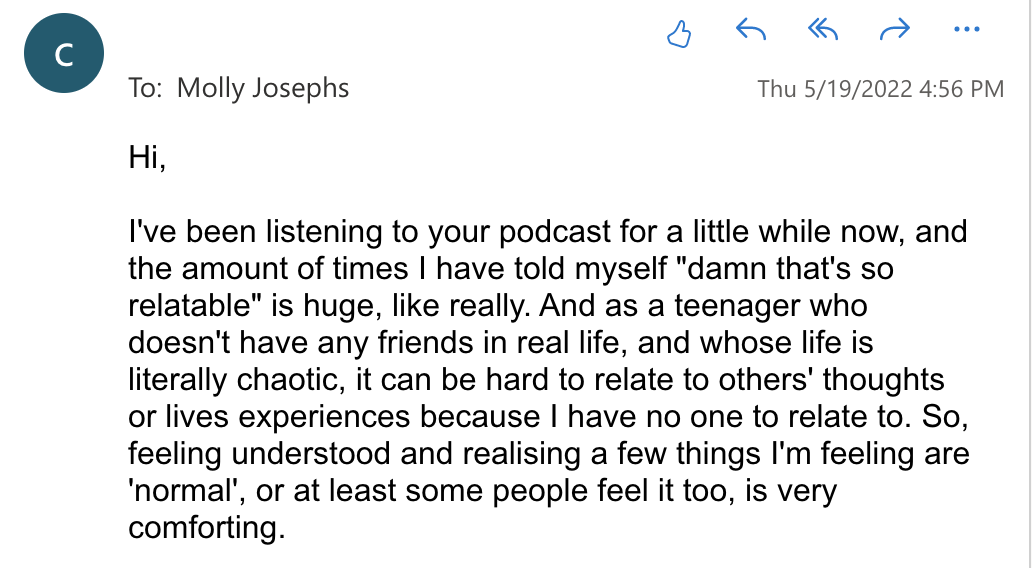
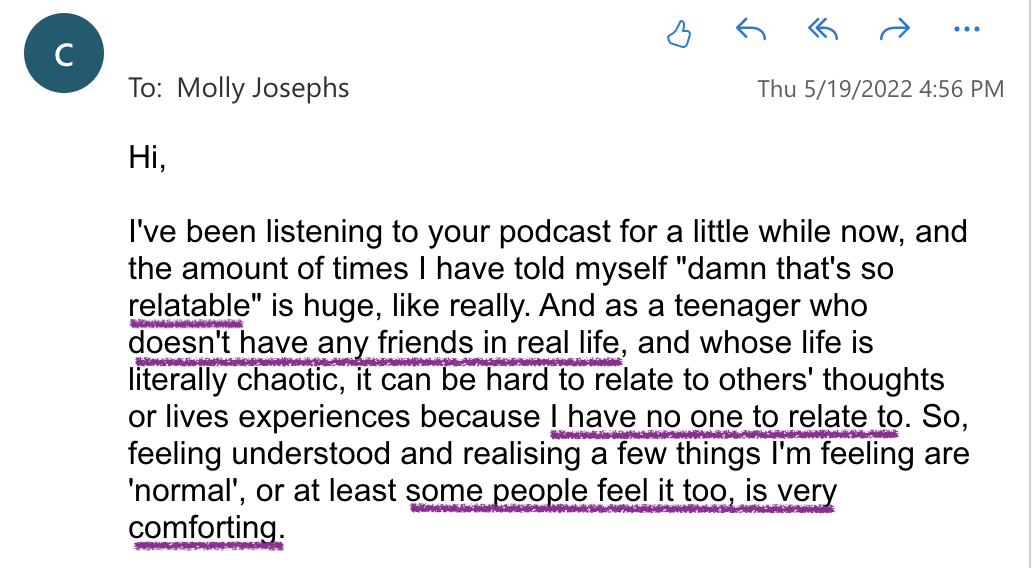
adding edited images

diff --git a/index.html b/index.html
@@ -84,15 +84,18 @@ font-family: 'Fredoka One', cursive; -->
             </section>
             <section style="opacity: 0.5;" data-background-size="contain" data-background-image="frenchEmail.png"></section>
             <section style="opacity: 0.5;" data-background-size="contain" data-background-image="keerthiEmail.png"></section>
+             <section style="opacity: 0.5;" data-background-size="contain" data-background-image="lEmail.jpg"></section>
             <section style="opacity: 0.5;" data-background-size="contain" data-background-image="lydiaEmail.png"></section>
             <section data-background-size="contain" data-background-image="ttlSy.png">
                 <div style=" font-size: 80px;color: rgba(255, 255, 255, 1);position: relative; top:-100px;
                         font-family: 'Fredoka One', cursive;">
                     <p style="font-size: 40px;">
-                        Re-envisioning podcasts as participatory.
+                        Podcasting as a <i>participatory</i> medium.
                             </p>
                 </div>
             </section>
+
+            <section data-background-image="lydiaText.png" data-background-size="contain"></section>
            <!--  <section style="opacity: 0.8;" data-background-size="contain" data-background-video="spotify.mp4" data-autoplay>
                 <div style="font-size: 30px;color: rgba(255, 255, 255, 1);position: relative; top: 0px;font-family: 'Fredoka One', cursive;" class="fragment">
                     <p style="font-size: 400px;">
@@ -107,19 +110,20 @@ font-family: 'Fredoka One', cursive; -->
                     </div>
                 </center>
             </section> -->
-            <section style="opacity: 0.8;" data-background-size="contain" data-background-image="audience.png">
-                <div class="fragment" style="font-size: 40px; background-color: rgba(0, 0, 0, 0.5); color: rgba(255, 255, 255, 1); position: relative; top: 0px; font-family: 'Fredoka One', cursive;">
+                   <!--  <section style="opacity: 0.8;" data-background-size="contain" data-background-image="audience.png">
+                 <div class="fragment" style="font-size: 35px; background-color: rgba(0, 0, 0, 0.5); color: rgba(255, 255, 255, 1); position: relative; top: -300px; font-family: 'Fredoka One', cursive;"><p>With your support, we could help so many more people</p></div>
+                <div class="fragment" style="font-size: 30px; background-color: rgba(0, 0, 0, 0.5); color: rgba(255, 255, 255, 1); position: relative; top: -40px; font-family: 'Fredoka One', cursive;">
                     <ul>
                         <li>42 million adolescents in U.S.</li>
-                        <!--                         <li>20% girls experienced >1 depressive episodes</li>
- -->
+                                        <li>20% girls experienced >1 depressive episodes</li>
+
                         <li>50% of teens listen to podcasts</li>
                     </ul>
                 </div>
-            </section>
+            </section> -->
             <section style="opacity: 0.8;" data-background-size="contain" data-background-image="ttlMap.png">
                 <div class="fragment" style="font-size: 30px; position: relative; top: 380px; color: black;font-family: 'Fredoka One', cursive;">
-                    With your help, we could become the <span style="font-size:50px">most popular & healing</span> adolescent podcast in the U.S. & world especially for girls and LGBTQIA+ youth.
+                    With your help, we could helps so many more young people & become the <span style="font-size:50px">most popular & healing</span> adolescent podcast in the U.S. & world especially for girls and LGBTQIA+ youth.
                 </div>
             </section>
            <!--  <section style="opacity: 0.8;" data-background-size="contain" data-background-image="audience.png"> -->
@@ -133,14 +137,13 @@ font-family: 'Fredoka One', cursive; -->
                     <p style="font-size: 50px;">
                         <!--  We are using podcasts in a new way — to enable <i>participation</i> and authentic connection.
                         <br><br> -->
-                       Our virtual peer-to-peer dialogue groups could be for adolescent isolation & loneliness, what AA is alcoholism.
+                       Our virtual peer-to-peer dialogue groups could be for adolescent isolation & loneliness, what AA is for alcoholism.
                     </p>
                 </div>
             </section>
             <section data-background-size="contain" data-background-image="gratitudeEmailforXQ2.png">
                 <div style="font-size: 30px; position: relative;  background-color: white; color: black;font-family: 'Fredoka One', cursive;">
-                    Mission-aligned sponsors will fund us. <br><br>
-                    Need more adults — psychologist consultant, digital strategist, audio editors, facilitators. 
+                    Mission-aligned sponsors will fund us. 
 
                     <br><br>We currently have our first sponsorship with the XQ Institute.
                 </div>
